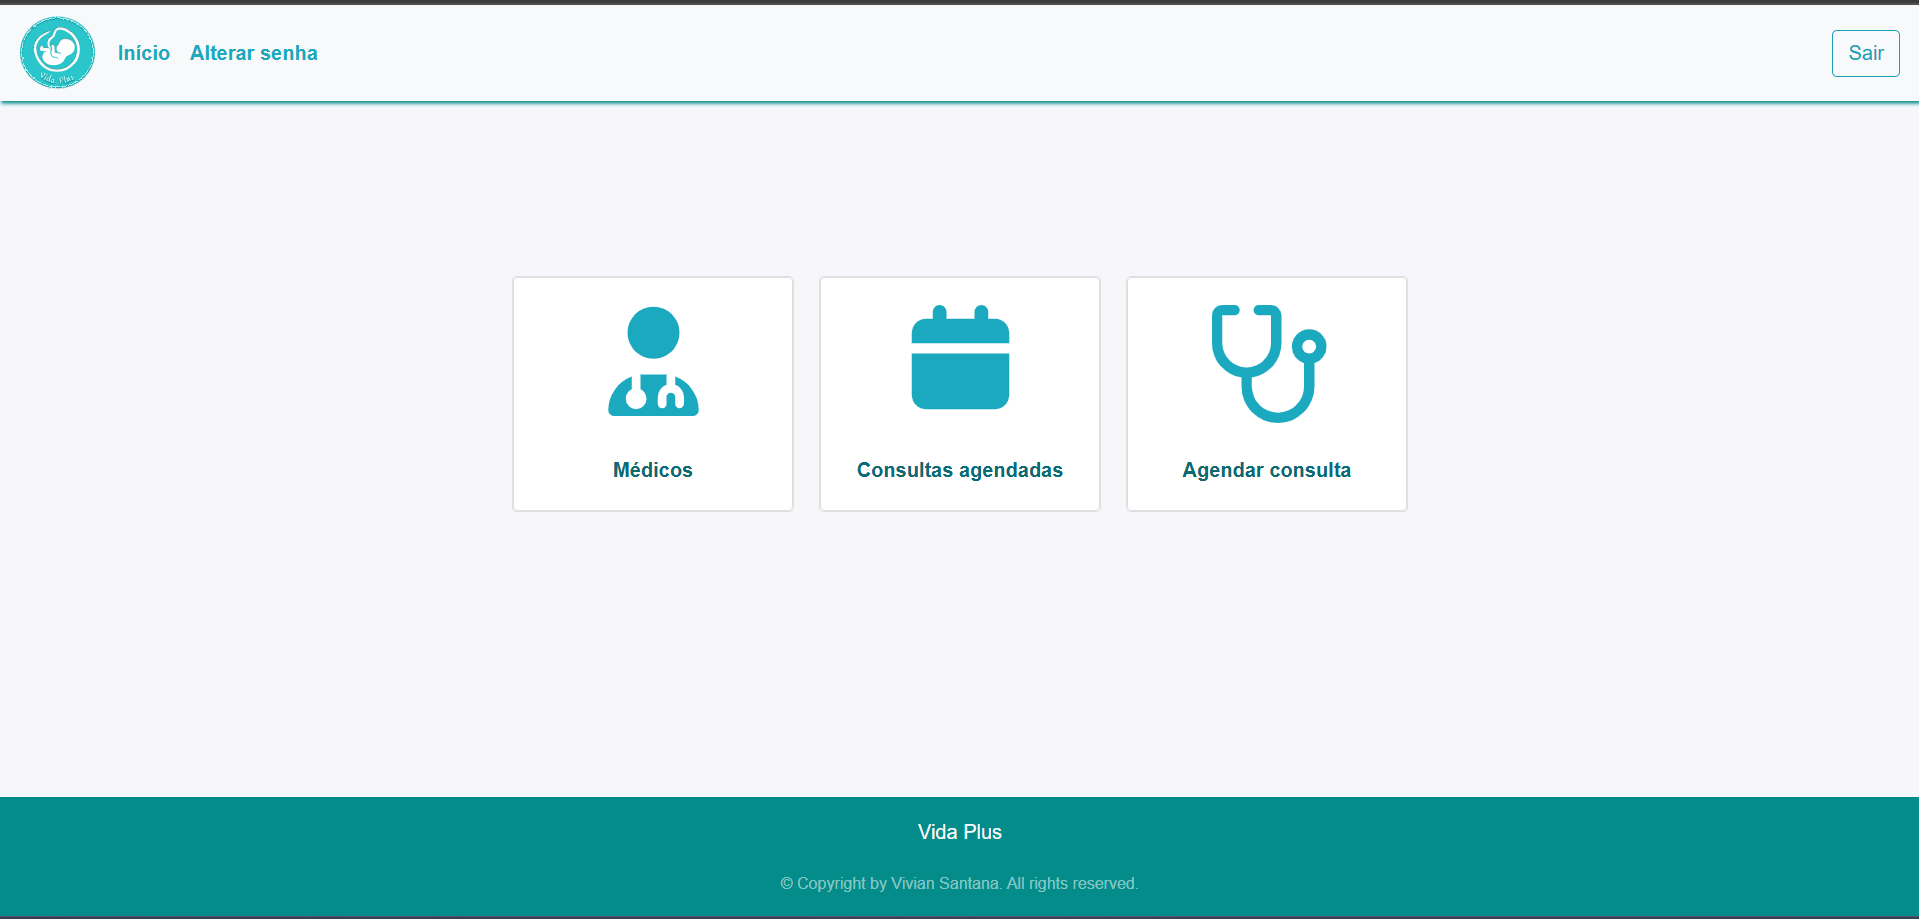
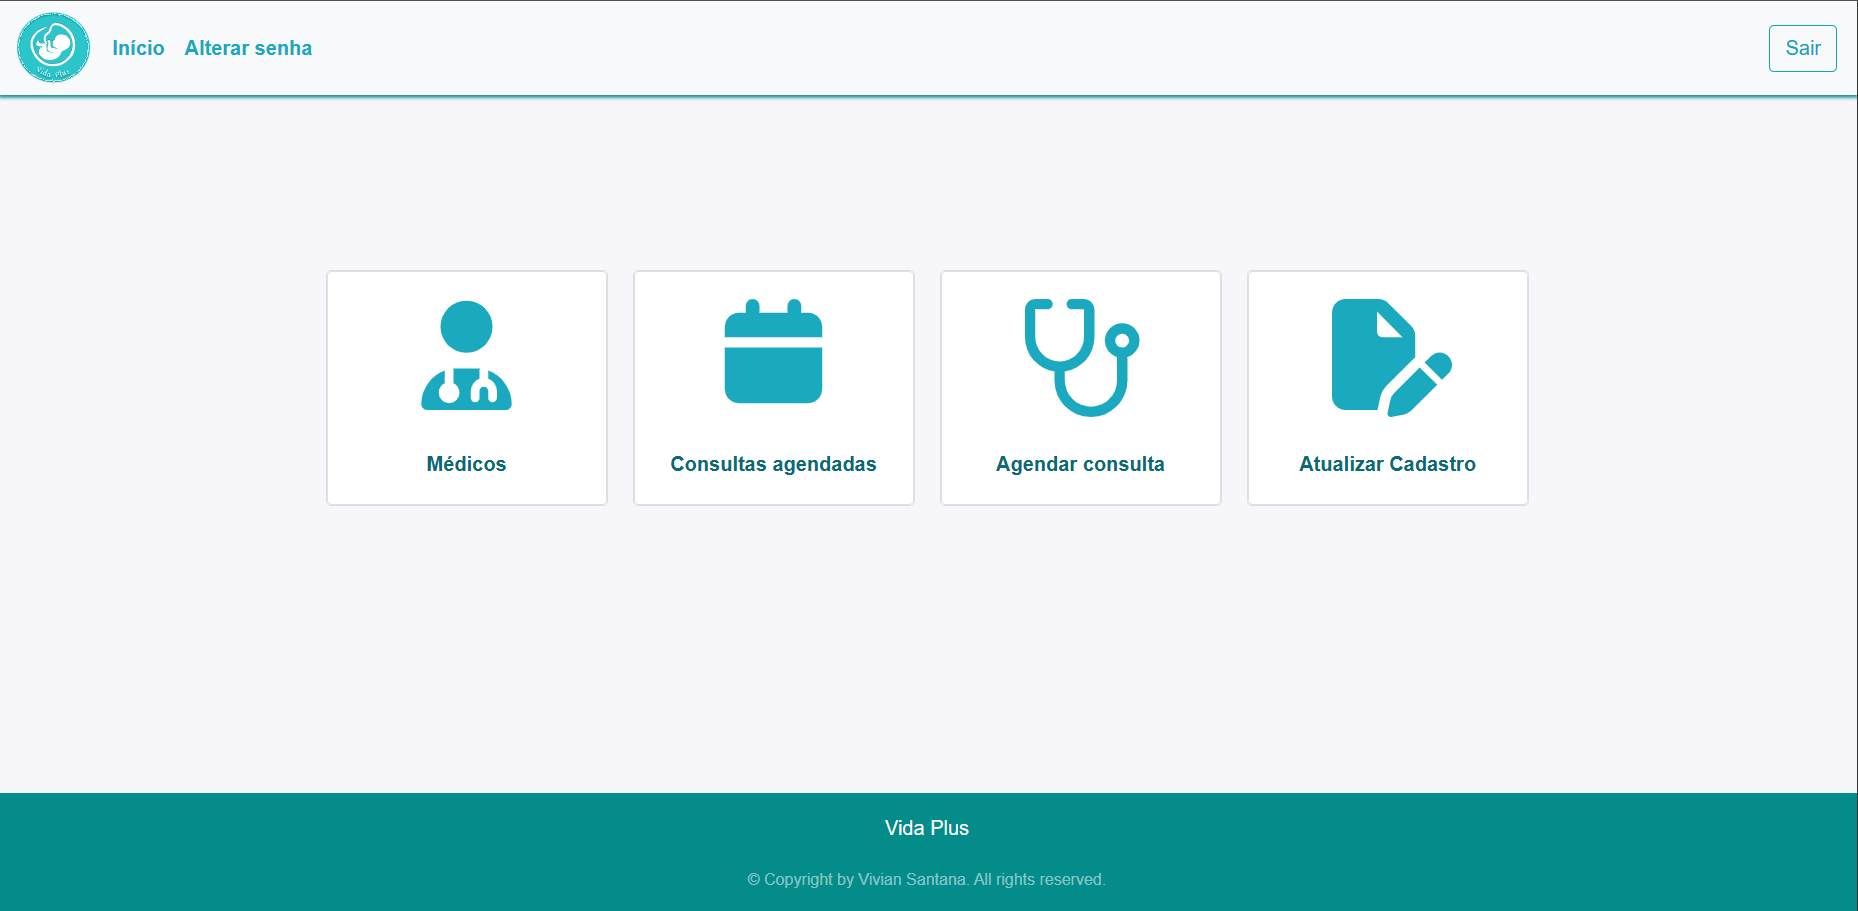
atualização

diff --git a/projetos.html b/projetos.html
@@ -41,7 +41,7 @@
         <!-- Projeto 1 -->
         <article id="projetos" class="projetos">
             <h2>Vida Plus</h2>
-            <p><span class="enfase">Vida Plus</span> é um sistema de agendamento de consultas médicas, com as funcionalidades de cadastro de paciente, login, reset de senha, agendamento e cancelamento de consulta, listagem de consultas agendadas e listagem de médicos disponíveis. Integrado a <span class="enfase"><a href="https://github.com/Vivian-Santana/Voll_Med" target="_blank">API Voll Med</a></span> adaptada para essa integração, desenvolvida com java, Spring Boot e MySQL.</p>
+            <p><span class="enfase">Vida Plus</span> é um sistema de agendamento de consultas médicas, com as funcionalidades de cadastro de paciente, atualizar cadastro, login, reset de senha, agendamento e cancelamento de consulta, listagem de consultas agendadas e listagem de médicos disponíveis. Integrado a <span class="enfase"><a href="https://github.com/Vivian-Santana/Voll_Med" target="_blank">API Voll Med</a></span> adaptada para essa integração, desenvolvida com java, Spring Boot e MySQL.</p>
             <h3>Tecnologias usadas</h3>
             <ul>
                 <li>Html</li>
@@ -509,28 +509,6 @@
                   ></a>
             </div>
         </article>
-
-        <!-- <article>
-          <h3></h3>
-          <p></p>
-
-          <img src="/assets/img/" alt="">
-
-            <div class="projeto-links">
-              <a
-                  class="fa-brands fa-figma fa-2x" 
-                  target="_blank"
-                  href=""
-                  title="flow do Protótipo"
-                ></a>
-                <a 
-                  class="fa-solid fa-link fa-2x"
-                  target="_blank"
-                  href=""
-                  title="link do Protótipo"
-                  ></a>
-            </div>
-        </article> -->
       </section>
     </main>
 

diff --git a/assets/style.css b/assets/style.css
@@ -840,10 +840,10 @@ html, body{
     width: 100%;
     max-width: 100%;
     box-sizing: border-box;
-    margin-top: -1rem; /*ajusta a posição vertical da div navigation-auto*/
+    margin-top: -1.5rem; /*ajusta a posição vertical da div navigation-auto*/
     display: flex;
     justify-content: center;
-    padding: 2rem;
+    padding: 2.5rem;
   }
 /*radio q avança conforme as imgs do carrossel*/
   .navigation-auto .nav-btn{
@@ -1244,7 +1244,7 @@ html, body {
     }
 
     .navigation-auto{
-      padding: 1rem;
+      padding: 1.5rem;
     }
     
     .navegacao-manual{

diff --git a/index.html b/index.html
@@ -112,7 +112,7 @@
             O que me motiva
           </h4>
           <ul>
-            <li>Entender como as coisas funcionam — e por que</li>
+            <li>Entender como as coisas funcionam — e por quê</li>
             <li>Criar interfaces, criativas, atrativas e intuitivas</li>
             <li>Aplicar conhecimento para resolver problemas</li>
             <li>

diff --git a/README.md b/README.md
@@ -7,3 +7,12 @@
 - JavaScript
 - Responsividade com Media Query
 - Animação com keyframes
+
+###
+![Screenshot print da home](./img-readme/web.png)
+
+![Screenshot print da home](./img-readme/nestHub.png)
+
+![Screenshot print da home](./img-readme/iPadPro.png)
+
+![Screenshot print da home](./img-readme/iPhone12.png)
